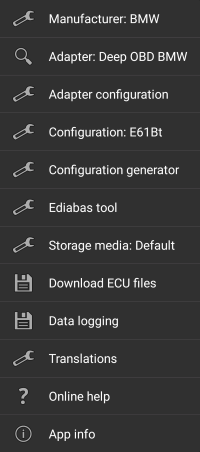
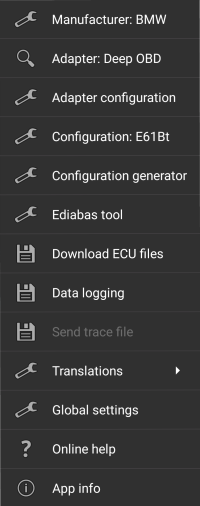
Updated main menu

diff --git a/docs/Deep_OBD_for_BMW_and_VAG.md b/docs/Deep_OBD_for_BMW_and_VAG.md
@@ -42,7 +42,6 @@ The application has a configuration menu with the following options:
 * _Configuration generator_: Simple [XML configuration files](Page_specification.md) could be generated automatically using the informations obtained from the vehicle. This menu opens the [configuration generator](Configuration_Generator.md) which allows to create new or modify existing XML files by simply selecting the ECU and job informations.
 * _Configuration_: This menu allows the selection of the [configuration file](Page_specification.md) _(*.cccfg file)_. When using the [configuration generator](Configuration_Generator.md) the configuration is selected automatically. After selection the file will be compiled.
 * _Ediabas tool_: This is a port of the tool32.exe windows application. Selecting the menu will open the [Ediabas tool](EdiabasTool.md) page.
-* _Storage media_: If the default storage media for the ECU files is not appropriate, a different media could be selected in this sub menu. The application storage directory on the media will be always fixed to _de.holeschak.bmw_deep_obd_.
 * _Download ECU files_: Since the BMW ECU files are very large (100MB), they are not included in the application package. When starting the application for the first time the ECU file download is requested automatically. With this menu entry the file download could be initiated manually if the ECU files are damaged.
 * _Data logging_: Selecting this menu entry will open a sub menu with multiple data logging options:
 	* _Create trace file_: If the checkbox of this menu is active, a _ifh.trc_ file will be created when the application is connected. The trace file will be created in the _Log_ subdirectory.
@@ -52,6 +51,7 @@ The application has a configuration menu with the following options:
 	* _Translate ECU text_: If this menu item is checked, automatic ECU text translation is active.
 	* _Yandex API Key_: For automatic translation with Yantex.Translate a free API Key is required, that allows a limited amount of translations per day. To get this key, a Yandex account is required. This menu provides a GUI that assists in obtaining the API Key.
 	* _Clear translation cache_: To enforce a new translation this menu resets the translation cache.
+* _Global settings_: Opens the [global app settings](GlobalSettings.md) page.
 * _Online help_: Displays this help page.
 * _App info_: Displays the app version and unique id.
 

diff --git a/docs/GlobalSettings.md b/docs/GlobalSettings.md
@@ -1,0 +1,16 @@
+# Global settings
+This page allows to change some global app settings.  
+* Bluetooth enable options:
+  * _Ask for Bluetooth enable_: Ask every time if Bluetooth should be enabled.
+  * _Always enable Bluetooth without request_: Always enable Bluetooth, never ask.
+  * _No automatic Bluetooth handling_: Bluetooth must be enabled manually.
+* Bluetooth disable options:
+  * _Disable Bluetooth at exit, if unused and enabled by app_: At app exit disable Bluetooth if the app has enabled it.  
+  If the Bluetooth connection is in use for other services it will not be disabled.
+* Data logging options:
+  * _Store log data settings_: Store log data settings (not trace seetings) from the main menu and restore them an app restart.
+* Storage media options:
+  * _Default or storage location_: If the default storage media for the ECU files is not appropriate, a different media could be selected here.  
+  The application storage directory on the media will be always fixed to _de.holeschak.bmw_deep_obd_.
+
+![Global settings](GlobalSettings_AppGlobalSettingsSmall.png)
